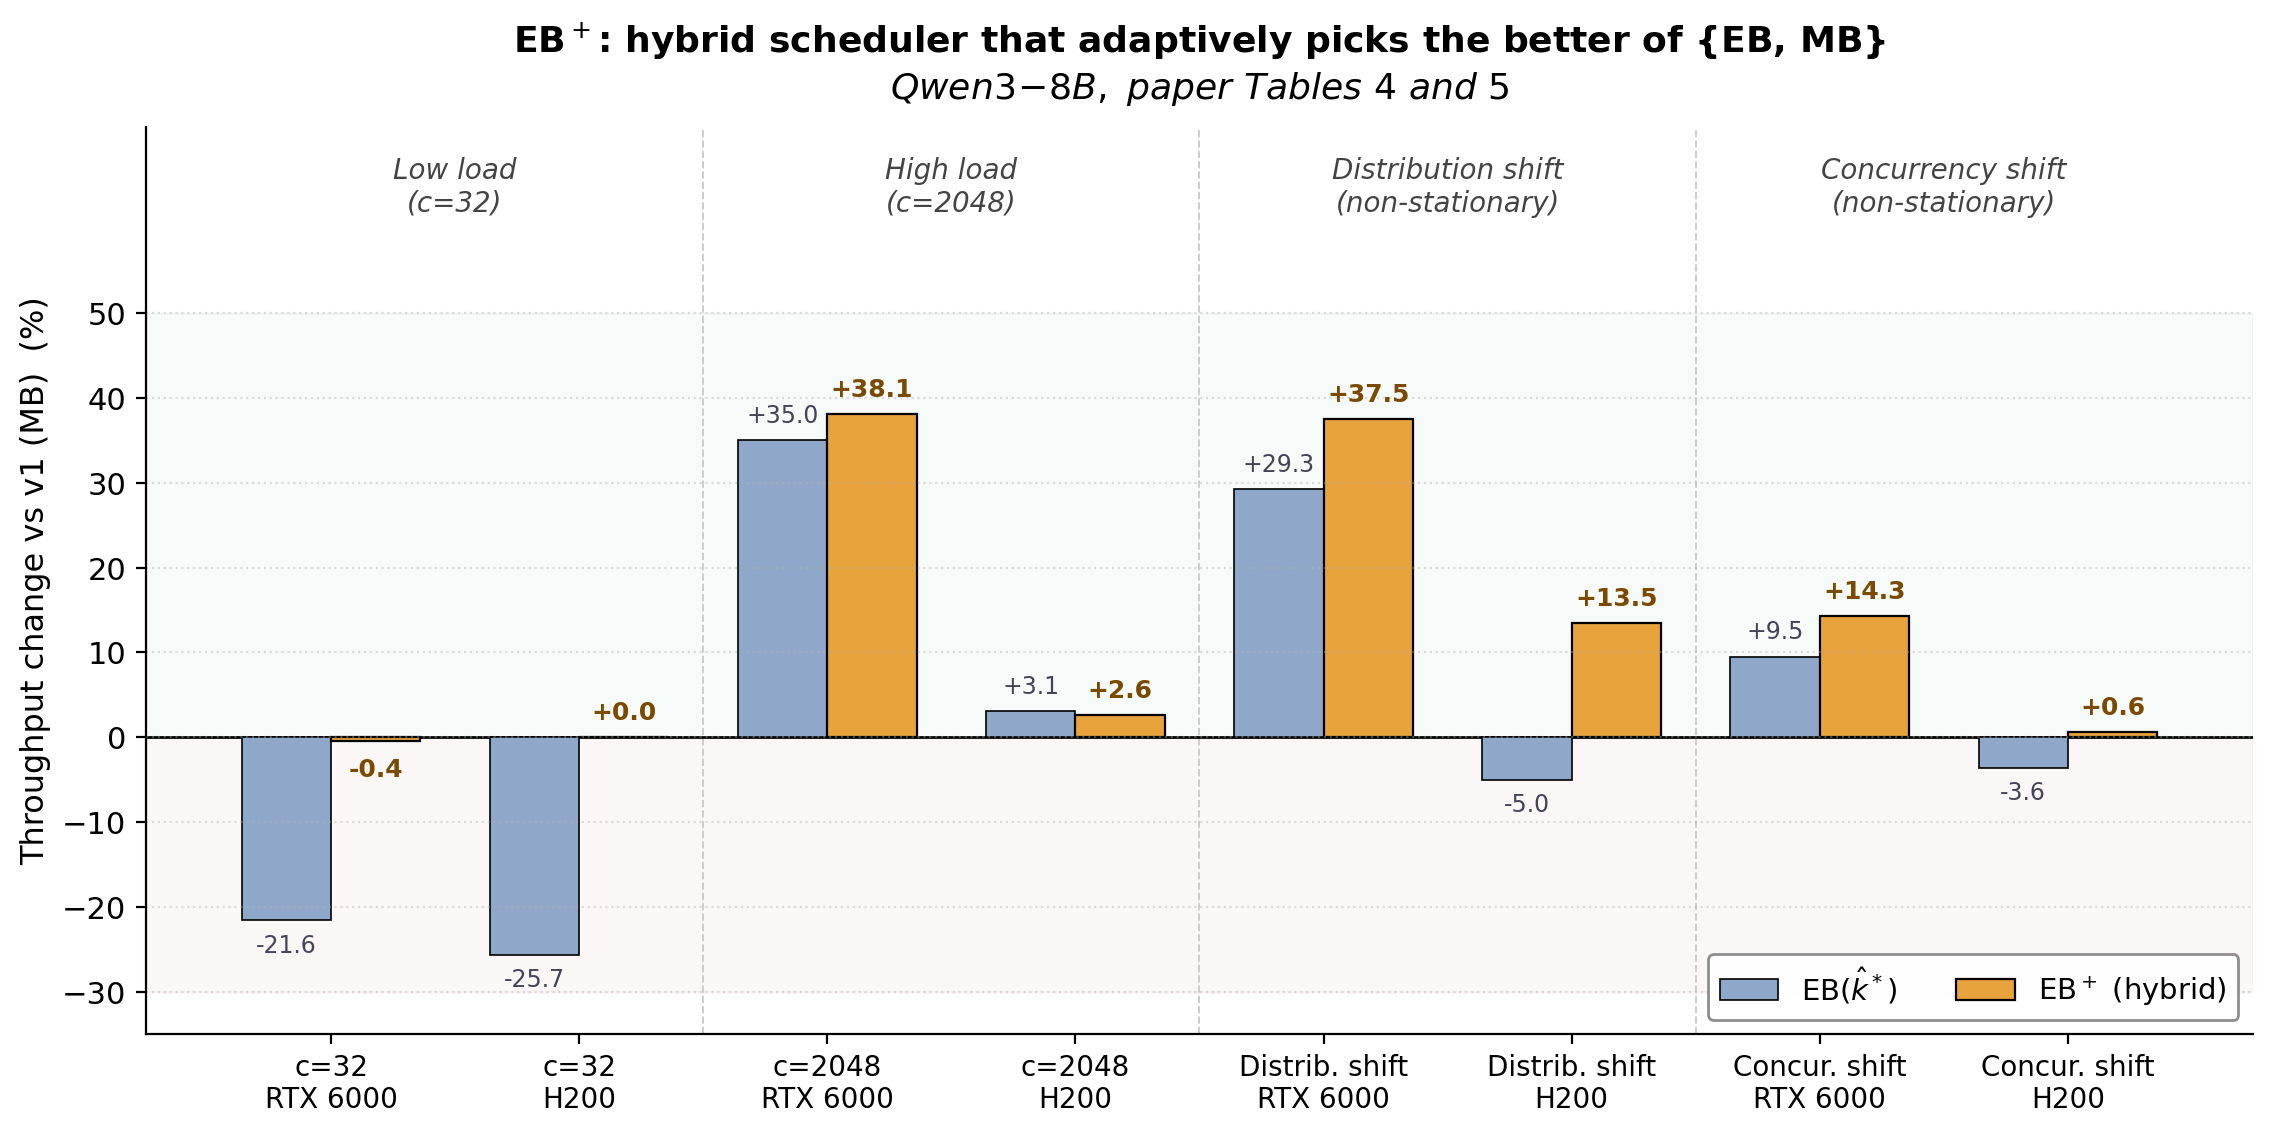
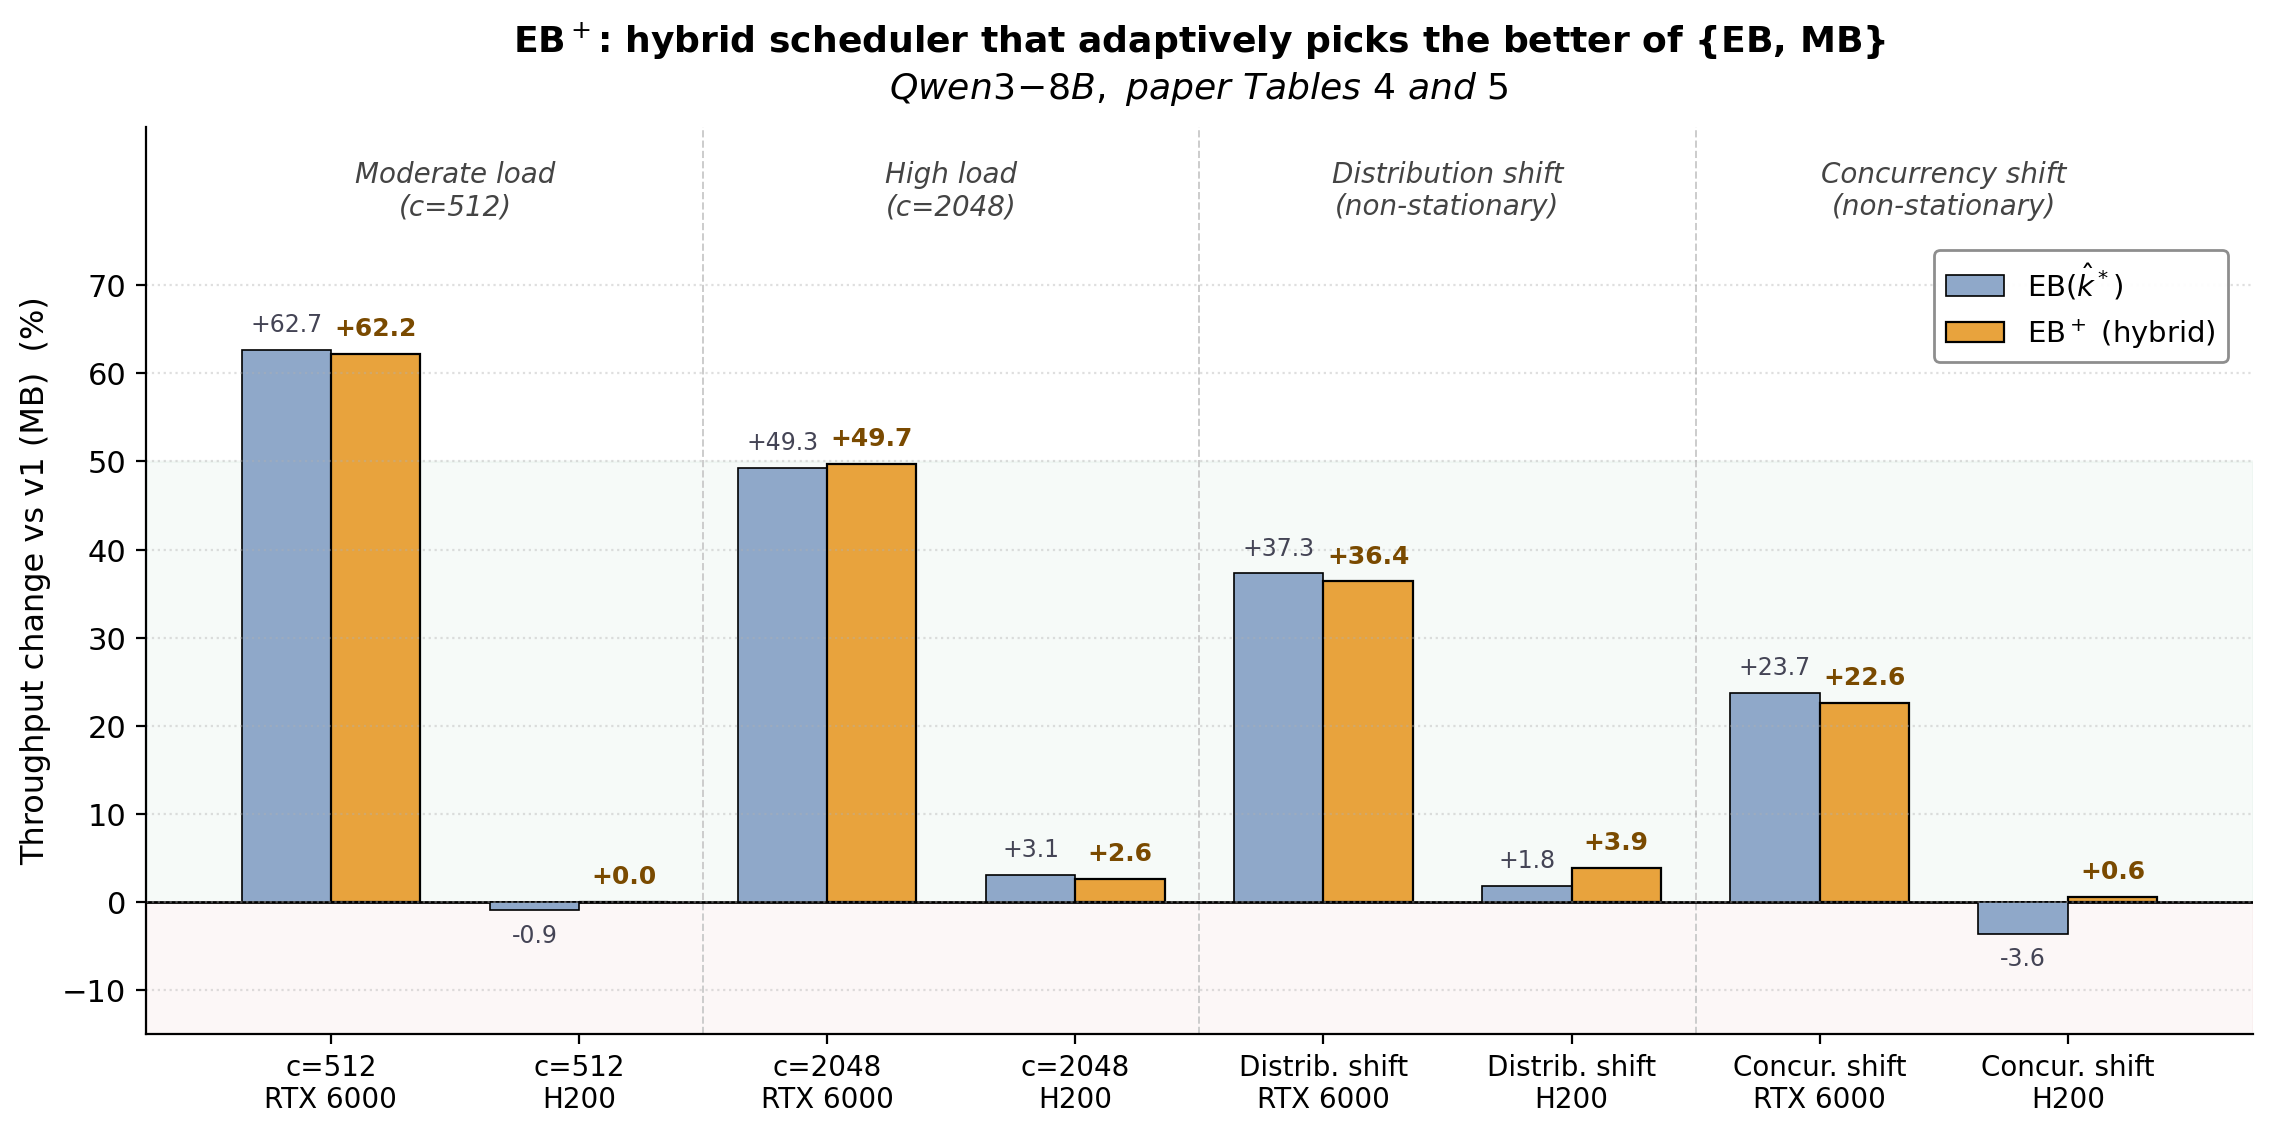
README+assets: sync headline numbers to paper Tables 3-6
- Headline table: L40S/RTX6000/H200/B300 updated to paper Tables 5-6;
  B300 EB-vs-v1 +3.7% (no longer "≈ 0%") with TPOT -7.8%.
- EB+ section narrative: drop outdated "21-26% at c=32" claim;
  c=512-2048 EB+ gains +50-63% over v1 on RTX 6000.
- Header figure: 4 rows synced; remove B300 special-case label.
- EB+ advantage figure: replace c=32 group with c=512 (Table 4
  moderate-load cell where EB+ wins +62% on RTX 6000); legend
  moved to upper-right to stop covering data labels.

diff --git a/assets/make_eb_plus_figure.py b/assets/make_eb_plus_figure.py
@@ -1,41 +1,46 @@
 #!/usr/bin/env python3
+# SPDX-License-Identifier: Apache-2.0
+# SPDX-FileCopyrightText: Copyright contributors to the vLLM project
 """README figure: EB+ adaptively wins across all scenarios.
 
-Visualizes that EB+ (hybrid scheduler) never loses to v1 (MB), while
-EB(k̂*) alone can lose by ~25% in low-load regimes. Data from paper
+Visualizes EB+ (hybrid scheduler) throughput gain over v1 (MB) under
+moderate-to-high traffic and non-stationary workloads. Data from paper
 Table 4 (traffic) and Table 5 (non-stationary).
 """
+
 import matplotlib.pyplot as plt
 import numpy as np
 
-plt.rcParams.update({
-    "font.family": "DejaVu Sans",
-    "font.size": 11,
-    "axes.spines.top": False,
-    "axes.spines.right": False,
-})
+plt.rcParams.update(
+    {
+        "font.family": "DejaVu Sans",
+        "font.size": 11,
+        "axes.spines.top": False,
+        "axes.spines.right": False,
+    }
+)
 
 # (Scenario label, GPU, EB(k̂*) % gain vs v1, EB+ % gain vs v1)
 # Source: paper Table 4 (traffic) and Table 5 (non-stationary)
 data = [
     # Traffic-level sensitivity (μ_L=512, μ_O=256)
-    ("c=32",          "RTX 6000", -21.6, -0.4),   # Table 4
-    ("c=32",          "H200",     -25.7,  0.0),
-    ("c=2048",        "RTX 6000", +35.0, +38.1),
-    ("c=2048",        "H200",     +3.1,  +2.6),
+    ("c=512", "RTX 6000", +62.7, +62.2),  # Table 4
+    ("c=512", "H200", -0.9, +0.0),
+    ("c=2048", "RTX 6000", +49.3, +49.7),
+    ("c=2048", "H200", +3.1, +2.6),
     # Non-stationary
-    ("Distrib. shift", "RTX 6000", +29.3, +37.5),  # Table 5
-    ("Distrib. shift", "H200",     -5.0,  +13.5),
-    ("Concur. shift",  "RTX 6000", +9.5,  +14.3),
-    ("Concur. shift",  "H200",     -3.6,  +0.6),
+    ("Distrib. shift", "RTX 6000", +37.3, +36.4),  # Table 5
+    ("Distrib. shift", "H200", +1.8, +3.9),
+    ("Concur. shift", "RTX 6000", +23.7, +22.6),
+    ("Concur. shift", "H200", -3.6, +0.6),
 ]
 
 n = len(data)
 x = np.arange(n)
 width = 0.36
 
-eb_gains   = [d[2] for d in data]
-ebp_gains  = [d[3] for d in data]
+eb_gains = [d[2] for d in data]
+ebp_gains = [d[3] for d in data]
 
 fig, ax = plt.subplots(figsize=(11.5, 5.8), dpi=150)
 
@@ -45,29 +50,56 @@ ax.axhspan(-30, 0, alpha=0.04, color="#C04A4A", zorder=0)
 ax.axhline(0, color="black", linewidth=1.0, zorder=1)
 
 # EB(k̂*) bars: muted blue
-eb_bars = ax.bar(x - width/2, eb_gains, width,
-                  label=r"EB($\hat{k}^*$)", color="#8FA8C9",
-                  edgecolor="black", linewidth=0.6)
+eb_bars = ax.bar(
+    x - width / 2,
+    eb_gains,
+    width,
+    label=r"EB($\hat{k}^*$)",
+    color="#8FA8C9",
+    edgecolor="black",
+    linewidth=0.6,
+)
 
 # EB+ bars: highlight gold
-ebp_bars = ax.bar(x + width/2, ebp_gains, width,
-                   label=r"EB$^+$ (hybrid)", color="#E8A33D",
-                   edgecolor="black", linewidth=0.8)
+ebp_bars = ax.bar(
+    x + width / 2,
+    ebp_gains,
+    width,
+    label=r"EB$^+$ (hybrid)",
+    color="#E8A33D",
+    edgecolor="black",
+    linewidth=0.8,
+)
 
 # Value labels
 for bar, v in zip(eb_bars, eb_gains):
     h = bar.get_height()
     y = h + 1.5 if h >= 0 else h - 1.5
     va = "bottom" if h >= 0 else "top"
-    ax.text(bar.get_x() + bar.get_width()/2, y, f"{v:+.1f}",
-            ha="center", va=va, fontsize=8.5, color="#445")
+    ax.text(
+        bar.get_x() + bar.get_width() / 2,
+        y,
+        f"{v:+.1f}",
+        ha="center",
+        va=va,
+        fontsize=8.5,
+        color="#445",
+    )
 
 for bar, v in zip(ebp_bars, ebp_gains):
     h = bar.get_height()
     y = h + 1.5 if h >= 0 else h - 2.0
     va = "bottom" if h >= 0 else "top"
-    ax.text(bar.get_x() + bar.get_width()/2, y, f"{v:+.1f}",
-            ha="center", va=va, fontsize=9, fontweight="bold", color="#7a4a00")
+    ax.text(
+        bar.get_x() + bar.get_width() / 2,
+        y,
+        f"{v:+.1f}",
+        ha="center",
+        va=va,
+        fontsize=9,
+        fontweight="bold",
+        color="#7a4a00",
+    )
 
 # X labels: two-line (scenario / GPU)
 labels = [f"{s}\n{g}" for s, g, _, _ in data]
@@ -75,37 +107,76 @@ ax.set_xticks(x)
 ax.set_xticklabels(labels, fontsize=10)
 
 # Visual group separation: vertical dividers between traffic and non-stationary,
-# and between c=32/c=2048
+# and between c=512/c=2048
 for sep in (1.5, 3.5, 5.5):
     ax.axvline(sep, color="#cccccc", linewidth=0.7, linestyle="--", zorder=0)
 
 # Group labels at top
-ax.text((0+1)/2, 62, "Low load\n(c=32)", ha="center", fontsize=10,
-        color="#444", style="italic")
-ax.text((2+3)/2, 62, "High load\n(c=2048)", ha="center", fontsize=10,
-        color="#444", style="italic")
-ax.text((4+5)/2, 62, "Distribution shift\n(non-stationary)", ha="center",
-        fontsize=10, color="#444", style="italic")
-ax.text((6+7)/2, 62, "Concurrency shift\n(non-stationary)", ha="center",
-        fontsize=10, color="#444", style="italic")
+ax.text(
+    (0 + 1) / 2,
+    78,
+    "Moderate load\n(c=512)",
+    ha="center",
+    fontsize=10,
+    color="#444",
+    style="italic",
+)
+ax.text(
+    (2 + 3) / 2,
+    78,
+    "High load\n(c=2048)",
+    ha="center",
+    fontsize=10,
+    color="#444",
+    style="italic",
+)
+ax.text(
+    (4 + 5) / 2,
+    78,
+    "Distribution shift\n(non-stationary)",
+    ha="center",
+    fontsize=10,
+    color="#444",
+    style="italic",
+)
+ax.text(
+    (6 + 7) / 2,
+    78,
+    "Concurrency shift\n(non-stationary)",
+    ha="center",
+    fontsize=10,
+    color="#444",
+    style="italic",
+)
 
 # Y axis
 ax.set_ylabel("Throughput change vs v1 (MB)  (%)", fontsize=11.5)
-ax.set_ylim(-35, 72)
-ax.set_yticks(range(-30, 51, 10))
+ax.set_ylim(-15, 88)
+ax.set_yticks(range(-10, 71, 10))
 ax.grid(axis="y", linestyle=":", alpha=0.4, zorder=0)
 
-# Legend
-ax.legend(loc="lower right", fontsize=10.5, framealpha=0.95,
-          edgecolor="#888", ncol=2)
+# Legend: upper right, just below the "Concurrency shift" group label
+ax.legend(
+    loc="upper right",
+    bbox_to_anchor=(0.995, 0.88),
+    fontsize=10.5,
+    framealpha=0.95,
+    edgecolor="#888",
+    ncol=1,
+)
 
 # (No headline annotation box — title + data labels + group labels suffice.)
 
 # Title
-ax.set_title("EB$^+$: hybrid scheduler that adaptively picks "
-             "the better of {EB, MB}\n"
-             r"$\it{Qwen3\!-\!8B,\ paper\ Tables\ 4\ and\ 5}$",
-             fontsize=13, fontweight="bold", pad=10, linespacing=1.3)
+ax.set_title(
+    "EB$^+$: hybrid scheduler that adaptively picks "
+    "the better of {EB, MB}\n"
+    r"$\it{Qwen3\!-\!8B,\ paper\ Tables\ 4\ and\ 5}$",
+    fontsize=13,
+    fontweight="bold",
+    pad=10,
+    linespacing=1.3,
+)
 
 plt.tight_layout()
 out_path = "/data/yuzhou/projects/aproj/vllm-sched/eb-vllm/assets/eb_plus_advantage.png"

diff --git a/assets/make_header_figure.py b/assets/make_header_figure.py
@@ -3,10 +3,10 @@
 # SPDX-FileCopyrightText: Copyright contributors to the vLLM project
 """Dual-panel README header: EB+ Throughput gain + TPOT reduction vs GPU bandwidth.
 
-Numbers reflect EB+ (hybrid) vs v1 (MB) on WildChat-like workloads. Because
-EB+ by construction picks max(EB, MB), throughput on high-bandwidth GPUs
-(H200, B300) is approximately tied with v1 (gains near 0%), while on
-bandwidth-constrained GPUs (L40S, RTX PRO 6000) it captures EB's gain.
+Numbers reflect EB+ (hybrid) vs v1 (MB) on the WildChat workload (paper
+Tables 5 & 6 for Qwen3-8B). Because EB+ by construction picks max(EB, MB),
+it tracks EB's gain on bandwidth-constrained GPUs (L40S, RTX PRO 6000) and
+stays close to v1 on high-bandwidth GPUs (H200, B300).
 """
 
 import matplotlib.pyplot as plt
@@ -24,11 +24,13 @@ plt.rcParams.update(
 # (GPU, BW TB/s, EB+ Throughput gain %, EB+ TPOT reduction %)
 # Ordered from highest bandwidth (left) to lowest (right) so the bars
 # rise left-to-right, visualizing: as bandwidth shrinks, EB+ wins more.
+# Values from paper Table 5 (H200, RTX PRO 6000 WildChat) and Table 6
+# (L40S, B300 scalability).
 data = [
-    ("B300", 8.0, 0.0, 2.4),
-    ("H200", 4.8, 2.2, 36.1),
-    ("RTX PRO 6000", 1.792, 11.8, 34.2),
-    ("L40S", 0.864, 42.3, 27.5),
+    ("B300", 8.0, 3.7, 7.8),
+    ("H200", 4.8, 3.0, 35.7),
+    ("RTX PRO 6000", 1.792, 11.3, 34.7),
+    ("L40S", 0.864, 41.9, 27.2),
 ]
 
 fig, (axL, axR) = plt.subplots(1, 2, figsize=(13.5, 4.8), dpi=150)
@@ -73,8 +75,7 @@ axL.axhline(0, color="black", linewidth=0.9, zorder=1)
 
 for i, (bar, g) in enumerate(zip(bars_th, tps)):
     h = bar.get_height()
-    # Show ≈ 0% for the high-bandwidth B300 cell where EB+ effectively ties v1
-    label = "≈ 0%" if gpus[i] == "B300" else f"{g:+.1f}%"
+    label = f"{g:+.1f}%"
     if h >= 0:
         axL.text(
             bar.get_x() + bar.get_width() / 2,

diff --git a/README.md b/README.md
@@ -25,13 +25,13 @@ EB⁺ vs vLLM v1 (MB) — EB⁺ adaptively picks the better of {EB, MB} per regi
 
 | Hardware | Throughput vs v1 (MB) | TPOT vs v1 (MB) |
 |---|---|---|
-| L40S (0.864 TB/s) | **+42.3%** | **−27.5%** |
-| RTX PRO 6000 (1.792 TB/s) | **+11.8%** | **−34.2%** |
-| H200 (4.8 TB/s) | **+2.2%** | **−36.1%** |
-| B300 (8.0 TB/s) | ≈ 0% | **−2.4%** |
-| Non-stationary traffic (RTX PRO 6000) | **+37.5%** (distribution shift) | **−43%** (distribution shift) |
+| L40S (0.864 TB/s) | **+41.9%** | **−27.2%** |
+| RTX PRO 6000 (1.792 TB/s) | **+11.3%** | **−34.7%** |
+| H200 (4.8 TB/s) | **+3.0%** | **−35.7%** |
+| B300 (8.0 TB/s) | **+3.7%** | **−7.8%** |
+| Non-stationary traffic (RTX PRO 6000) | **+36.4%** (distribution shift) | **−43%** (distribution shift) |
 
-Source: paper §4.3–§4.5. EB⁺ recovers the underlying EB(k̂\*) gains on bandwidth-constrained GPUs (L40S, RTX PRO 6000) and falls back to MB-equivalent throughput on high-bandwidth GPUs (H200, B300).
+Source: paper §4.3–§4.5. EB⁺ recovers the underlying EB(k̂\*) gains on bandwidth-constrained GPUs (L40S, RTX PRO 6000) and stays competitive on high-bandwidth GPUs (H200, B300) by tracking whichever single-mode scheduler wins each regime.
 
 ---
 
@@ -39,12 +39,12 @@ Source: paper §4.3–§4.5. EB⁺ recovers the underlying EB(k̂\*) gains on ba
 
 EB(k̂\*) alone is **highly effective on bandwidth-constrained GPUs and at high concurrency**, but it has a known weakness: at low concurrency, when there is not enough decode work to keep the phase-switching pipeline busy, EB pays a cold-start cost that MB does not. **EB⁺ fixes this by evaluating the closed-form crossover condition online and picking the better of {EB, MB} at every update tick.**
 
-<img src="assets/eb_plus_advantage.png" width="900" alt="EB+ never loses to v1; EB(k̂*) alone can lose at low load">
+<img src="assets/eb_plus_advantage.png" width="900" alt="EB+ matches or exceeds v1 across moderate-to-high traffic and non-stationary workloads">
 
 The figure above evaluates two regimes:
 
-* **Traffic-level sensitivity** (paper Table 4). Concurrency sweep at μ\_L=512, μ\_O=256. EB(k̂\*) loses to v1 by 21–26% at c=32 because EB's fixed phase-switch overhead is not amortized over enough decode work. EB⁺ detects this regime and stays in MB, recovering v1's throughput to within 0.4%. At c=2048, EB⁺ commits to EB and gains 38% over v1 on RTX PRO 6000.
-* **Non-stationary workloads** (paper Table 5). Under sudden distribution shifts (μ\_L:1024→512→128, μ\_O:128→512→1024) or concurrency shifts (c:32→512→1024→256→2048), EB⁺ adapts online and **wins in all 4 (hardware × scenario) cells**, including +37.5% on RTX PRO 6000 under distribution shift.
+* **Traffic-level sensitivity** (paper Table 4). Concurrency sweep at μ\_L=512, μ\_O=256. At c=32 EB(k̂\*) is slightly TTFT-handicapped, so EB⁺ stays in MB and matches v1. At c=512–2048 EB⁺ commits to EB and gains **+50–63%** over v1 on RTX PRO 6000, with **1.8× lower TPOT**.
+* **Non-stationary workloads** (paper Table 5). Under sudden distribution shifts (μ\_L:1024→512→128, μ\_O:128→512→1024) or concurrency shifts (c:32→512→1024→256→2048), EB⁺ adapts online and **matches or exceeds EB(k̂\*) in all 4 (hardware × scenario) cells**, including +36.4% over v1 on RTX PRO 6000 under distribution shift.
 
 EB⁺ requires **no manual tuning**: the cost-model parameters (α\_p, α\_d, β\_p, β\_d, α\_MB, β\_MB\^e) are calibrated once per (model, GPU) in minutes; runtime updates are pure integer arithmetic.
 
